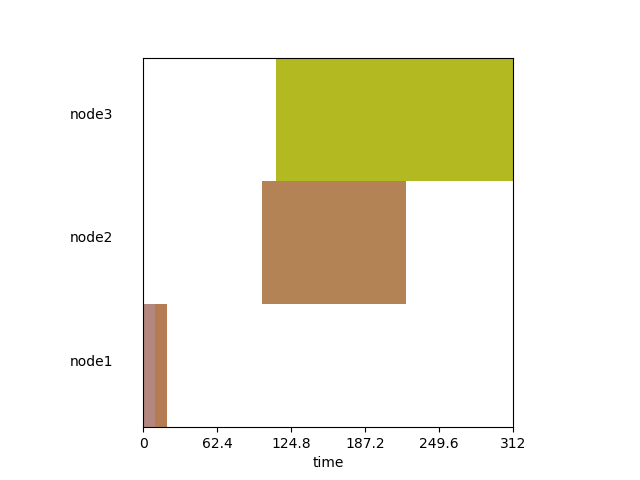
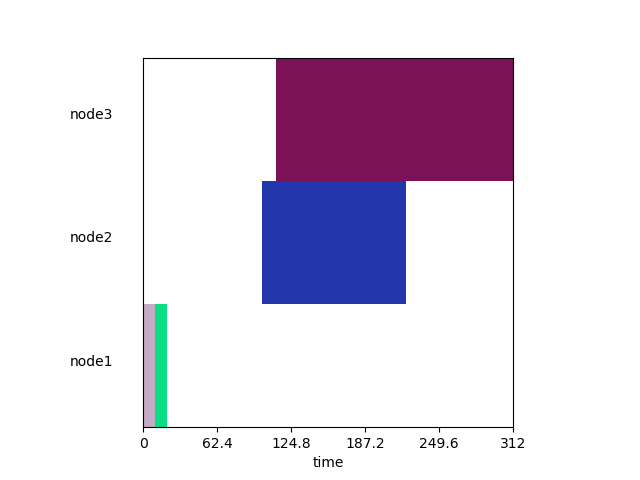
Improved colors

Changed region(s): [[0.4062, 0.125, 0.8125, 0.6562], [0.2188, 0.625, 0.2812, 0.9062]]

diff --git a/gantt.py b/gantt.py
@@ -45,7 +45,7 @@ def main():
             (task['start-time']/float(max_end_time), 1.0/n_nodes*node_index[task['node']]),  # (x,y)
             task_duration/float(max_end_time),  # width
             1.0/n_nodes,  # height
-            facecolor = (0.7, random(), random())
+            facecolor = (random(), random(), random())
         ))
 
     fig.savefig(results.output_file)
